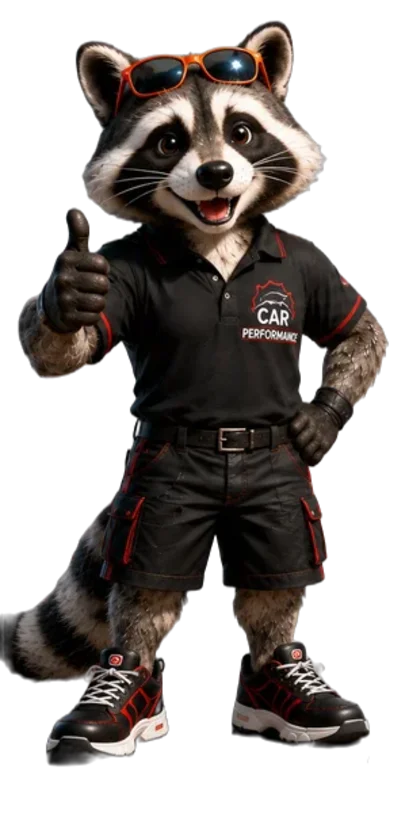
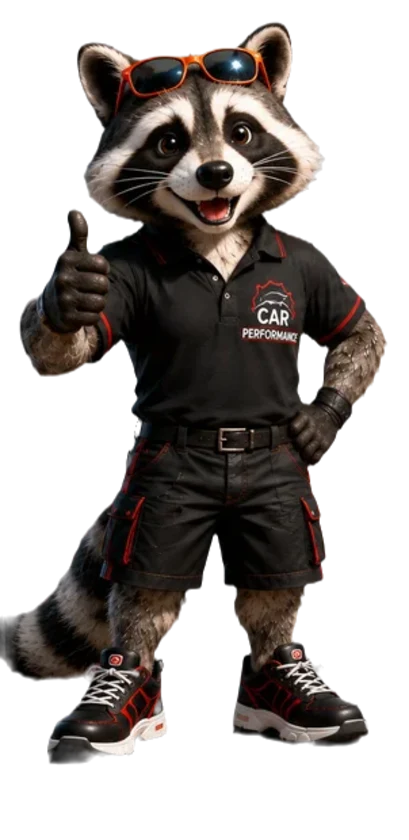
fix(design): voile gris autour des mascottes éliminé
Deux sources : (1) frange alpha résiduelle du matting — érosion 1px du
bord + level dur sur le canal alpha, depuis les sources ; (2) le
drop-shadow CSS ajouté au lot 2 lisait comme un halo gris sur fonds
colorés — supprimé. Contrôlé en zoom sur le rendu réel (Playwright).

diff --git a/components/cp/CpUniversCard.tsx b/components/cp/CpUniversCard.tsx
@@ -33,7 +33,7 @@ export function CpUniversCard({ univers: u }: { univers: UniversEntry }) {
           alt={u.mascotte.alt}
           width={u.mascotte.width}
           height={u.mascotte.height}
-          className="absolute -right-[10px] -bottom-[14px] z-[1] h-[170px] md:h-[195px] w-auto drop-shadow-[0_14px_22px_rgba(0,0,0,.4)] transition-transform duration-500 ease-cp-out group-hover:scale-[1.04]"
+          className="absolute -right-[10px] -bottom-[14px] z-[1] h-[170px] md:h-[195px] w-auto transition-transform duration-500 ease-cp-out group-hover:scale-[1.04]"
           style={{
             WebkitMaskImage: 'linear-gradient(to bottom, #000 78%, transparent 100%)',
             maskImage: 'linear-gradient(to bottom, #000 78%, transparent 100%)',
